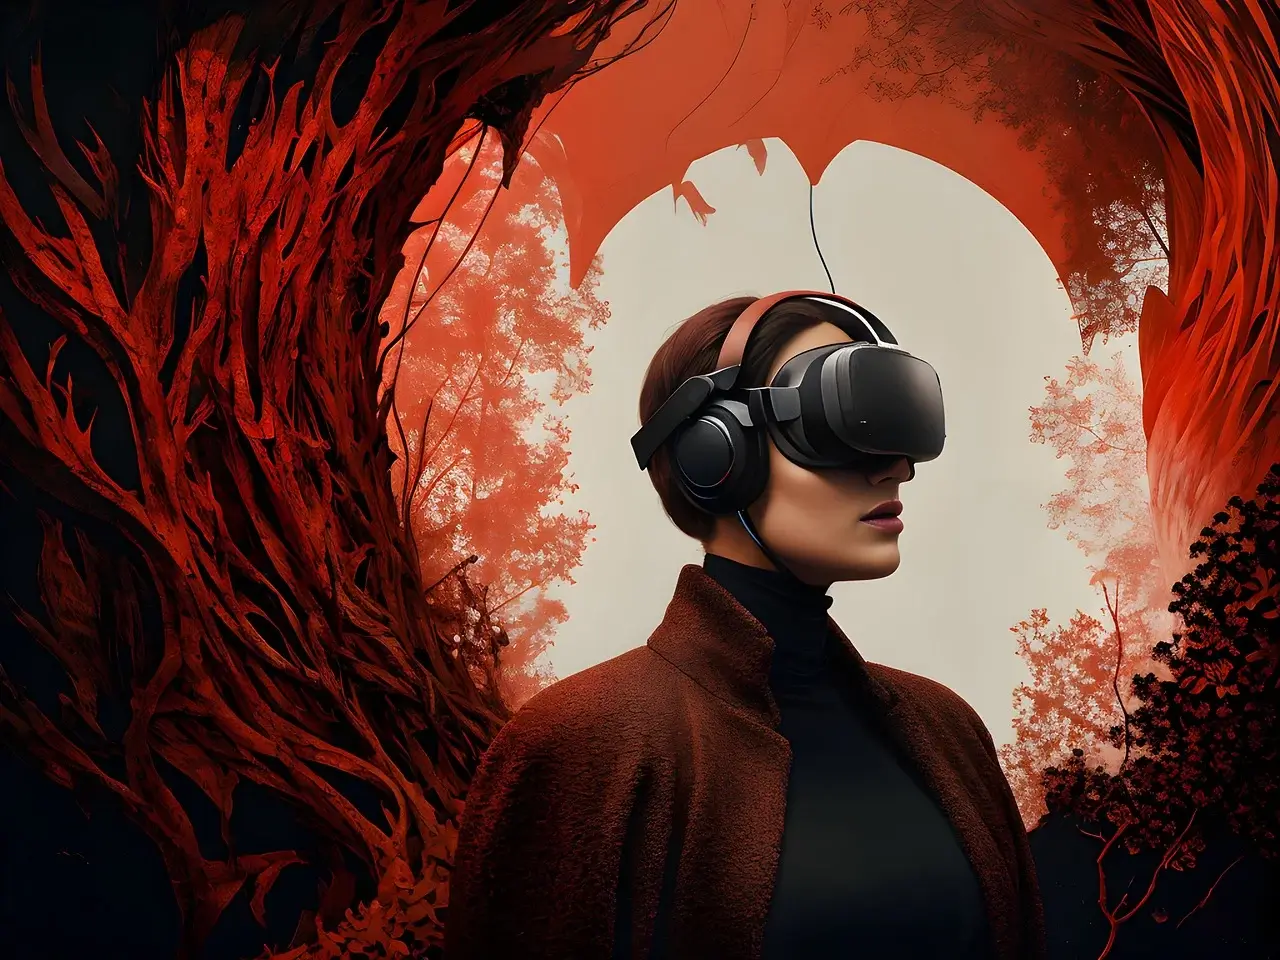
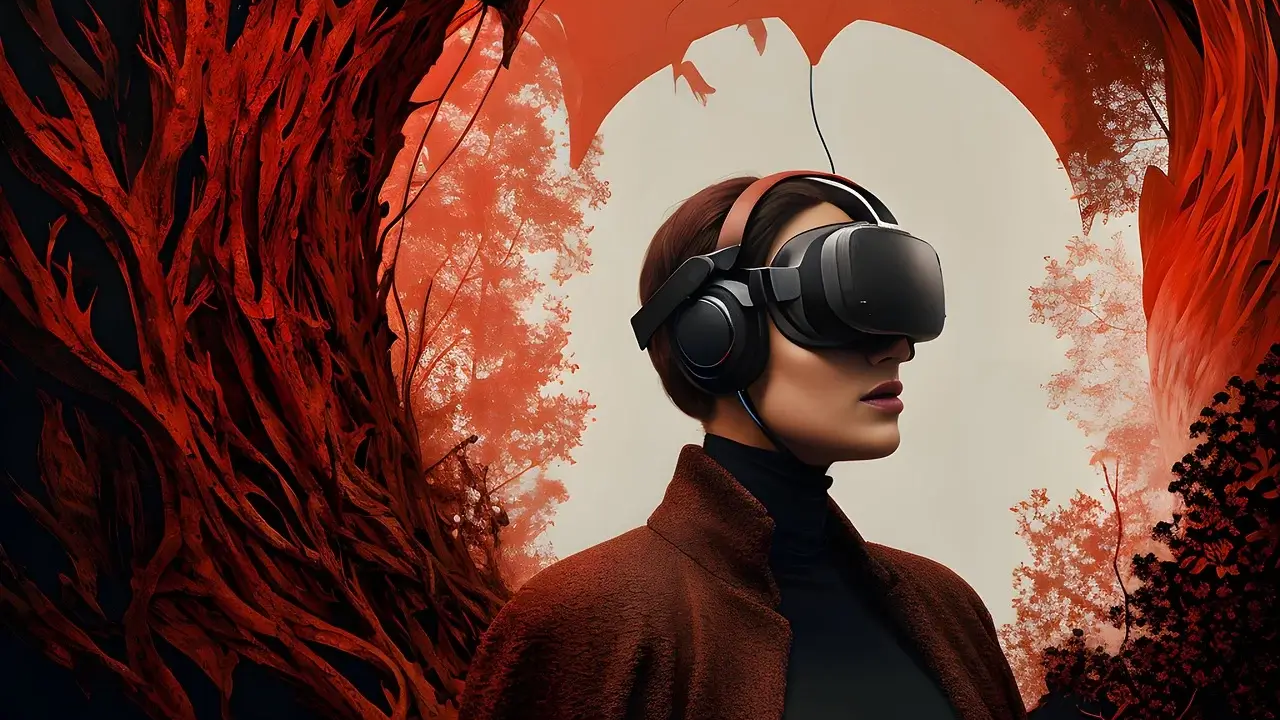
newest version

diff --git a/index.html b/index.html
@@ -61,9 +61,29 @@
   </div>
 </nav>
 <h1 class="display-6 text-center mb-3 mt-3">Welcome to my page</h1>
-<figure>
- <img class="img-fluid" src="./assets/images/vrbrilredbackground.webp" width="100%" alt="vrbril">
-</figure>
+
+<div id="carouselExampleAutoplaying" class="carousel slide" data-bs-ride="carousel">
+  <div class="carousel-inner">
+    <div class="carousel-item active">
+      <img src="/assets/images/iphonescroll.jpg" class="d-block w-100" alt="jonge-gast">
+    </div>
+    <div class="carousel-item">
+      <img src="/assets/images/laptopwerk.jpg" class="d-block w-100" alt="sfeerit">
+    </div>
+    <div class="carousel-item">
+      <img src="/assets/images/vrbrilredbackground.webp" class="d-block w-100" alt="vr-bril">
+    </div>
+  </div>
+  <button class="carousel-control-prev" type="button" data-bs-target="#carouselExampleAutoplaying" data-bs-slide="prev">
+    <span class="carousel-control-prev-icon" aria-hidden="true"></span>
+    <span class="visually-hidden">Previous</span>
+  </button>
+  <button class="carousel-control-next" type="button" data-bs-target="#carouselExampleAutoplaying" data-bs-slide="next">
+    <span class="carousel-control-next-icon" aria-hidden="true"></span>
+    <span class="visually-hidden">Next</span>
+  </button>
+</div>
+
 </header>
 <main>
   <section class="row container-fluid col-md-auto m-5">

diff --git a/detail3.html b/detail3.html
@@ -69,8 +69,10 @@
     </figure>
     <article class="col-6">
         <h2>piano</h2>
-        <p></p>
-    </article>
+        <p>De piano is een tijdloos en veelzijdig muziekinstrument dat in vrijwel elk muziekgenre een belangrijke rol speelt. Met haar rijke klank en brede toonbereik biedt de piano eindeloze mogelijkheden voor expressie en creativiteit. Van rustige klassieke composities tot moderne popmuziek, het instrument past zich moeiteloos aan verschillende stijlen aan.
+        Piano spelen vraagt concentratie, techniek en gevoel. Het ontwikkelen van ritme, coördinatie en muzikaliteit maakt het een uitdagend maar bijzonder waardevol leerproces. Voor veel muzikanten is de piano niet alleen een instrument, maar ook een manier om emoties te uiten en muzikale ideeën tot leven te brengen. Het blijft een bron van inspiratie voor beginners en professionals.</p>
+        <blockquote>"De piano vertaalt emoties in klanken en laat stilte veranderen in muziek die je echt voelt."</blockquote>
+      </article>
     </section>
 </main>
 

diff --git a/detail5.html b/detail5.html
@@ -69,8 +69,10 @@
     </figure>
     <article class="col-6">
         <h2>boksen</h2>
-        <p></p>
-    </article>
+        <p>Boksen is een krachtige en intensieve sport waarin discipline, techniek en doorzettingsvermogen centraal staan. Het vraagt niet alleen fysieke kracht en snelheid, maar ook mentale focus en strategisch inzicht. Tijdens trainingen werk je aan conditie, coördinatie en zelfvertrouwen, terwijl je leert om gecontroleerd en doelgericht te handelen.
+        Deze sport helpt bij het ontwikkelen van doorzettingsvermogen en respect, zowel voor jezelf als voor anderen. Elke training biedt de kans om grenzen te verleggen en sterker te worden, fysiek én mentaal. Voor veel mensen is boksen meer dan een sport; het is een manier om energie kwijt te raken, discipline op te bouwen en persoonlijke groei te stimuleren.</p>
+          <blockquote>"Boksen is een mentale en fysieke strijd waarin discipline en doorzettingsvermogen het verschil maken."</blockquote>
+      </article>
     </section>
 </main>
 

diff --git a/detail6.html b/detail6.html
@@ -69,8 +69,10 @@
     </figure>
     <article class="col-6">
         <h2>Gymnastiek</h2>
-        <p></p>
-    </article>
+        <p>Gymnastiek is een sport waarin kracht, flexibiliteit, balans en precisie samenkomen. Het vraagt discipline, concentratie en doorzettingsvermogen om bewegingen technisch correct uit te voeren. Door regelmatig te trainen ontwikkel je niet alleen een sterke lichaamshouding en coördinatie, maar ook zelfvertrouwen en controle over je eigen lichaam.
+        Deze sport biedt voortdurend nieuwe uitdagingen en stimuleert persoonlijke groei. Elke oefening vraagt focus en inzet, waardoor je stap voor stap beter wordt. Gymnastiek leert je omgaan met grenzen verleggen en doelen bereiken. Voor veel mensen is het meer dan alleen bewegen; het is een manier om jezelf fysiek en mentaal te ontwikkelen en met plezier actief bezig te zijn.</p>
+          <blockquote>"Gymnastiek is de kunst van kracht, controle en elegantie, waarbij elk beweging precisie en focus vereist."</blockquote>
+      </article>
     </section>
 </main>
 

diff --git a/detail1.html b/detail1.html
@@ -71,7 +71,10 @@
     <article class="col-6">
         <h2>speedcubing</h2>
         <p>bij Speedcubing moet je zo snel mogelijk een standaard 3x3 kubus oplossen. Er bestaan een hele hoop andere soortgelijke puzzels in alle formaten. Mijn persoonleke beste tijd voor het oplossen van een 3x3 kubus is <strong>16 seconden</strong>. Dit is de perfecte partytruc om aan je vrienden te laten zien. Het wereldrecord is onder de 4 seconden.</p>
-    </article>
+        <blockquote>
+        "Speedcubing draait niet alleen om snelheid, maar om focus, strategie en het doorbreken van je eigen grenzen."
+        </blockquote>
+      </article>
     </section>
 </main>
 

diff --git a/detail2.html b/detail2.html
@@ -69,7 +69,9 @@
     </figure>
     <article class="col-6">
         <h2>gitaar</h2>
-        <p></p>
+        <p>Gitaar spelen vraagt oefening, geduld en doorzettingsvermogen, maar biedt tegelijkertijd veel voldoening. Het leren van nieuwe akkoorden, het spelen van favoriete nummers en het ontwikkelen van een eigen stijl maken het proces inspirerend en motiverend. Voor veel mensen is gitaarspelen meer dan een hobby; het is een manier om emoties te uiten, creativiteit te ontdekken en verbinding te maken met anderen via muziek.
+      Of het nu op een podium is, thuis in de woonkamer of samen met vrienden rond een kampvuur: de gitaar blijft een tijdloos instrument dat mensen samenbrengt en muziek tot leven brengt</p>
+    <blockquote>"Elke snaar van een gitaar vertelt een verhaal en elke noot brengt gevoel tot leven."</blockquote>
     </article>
     </section>
 </main>

diff --git a/detail4.html b/detail4.html
@@ -69,7 +69,9 @@
     </figure>
     <article class="col-6">
         <h2>voetbal</h2>
-        <p></p>
+        <p>Voetbal is een van de populairste sporten ter wereld en brengt miljoenen mensen samen. Het is een sport waarin techniek, snelheid, samenwerking en strategie centraal staan. Op het veld draait alles om samenspel, discipline en doorzettingsvermogen om samen een doel te bereiken.
+      Voetbal helpt niet alleen bij het ontwikkelen van fysieke conditie, maar versterkt ook belangrijke vaardigheden zoals communicatie, teamwork en verantwoordelijkheid. Elke training en wedstrijd biedt nieuwe uitdagingen en kansen om te groeien, zowel individueel als als teamspeler. Voor velen is voetbal meer dan een sport; het is een passie die energie geeft, vriendschappen creëert en zorgt voor onvergetelijke momenten op en naast het veld.</p>
+          <blockquote>"Voetbal is meer dan een spel; het is teamwork, passie en het samen najagen van één doel."</blockquote>
     </article>
     </section>
 </main>